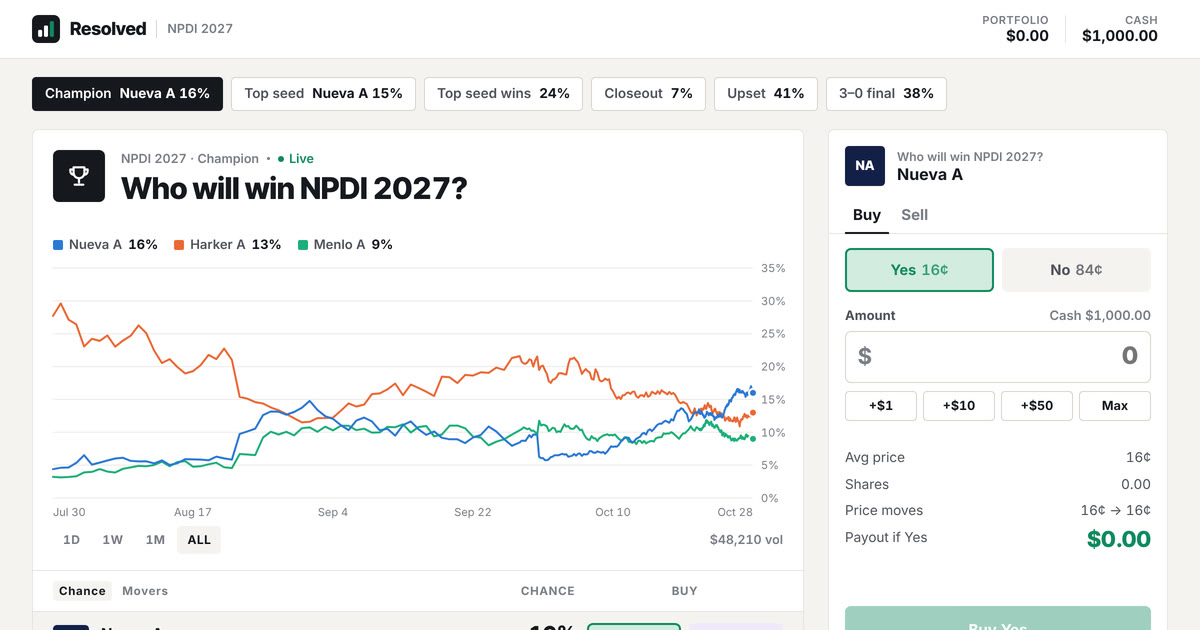
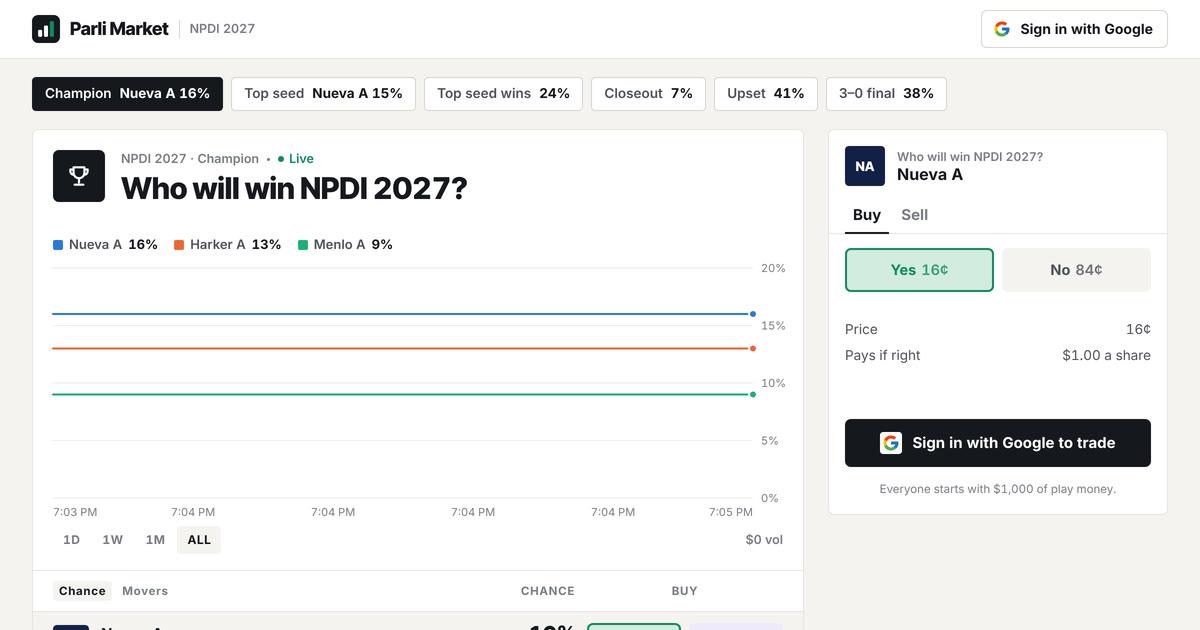
Call it Parli Market
The new name on the page, the sign-in and error pages, the link preview
and the docs. The header fits narrow phones (375 px with the longer name,
320 px without sideways scrolling), and the chart's time axis keeps up
while nobody trades.

Claude-Session: https://claude.ai/code/session_01GTHVkCPA3ymcEN54f3GL21

diff --git a/index.html b/index.html
@@ -3,11 +3,11 @@
 <head>
 <meta charset="utf-8">
 <meta name="viewport" content="width=device-width,initial-scale=1,viewport-fit=cover">
-<title>Resolved · NPDI odds</title>
+<title>Parli Market · NPDI odds</title>
 <meta name="description" content="Play-money prediction markets on the National Parliamentary Debate Invitational (NPDI): who wins, who&#39;s top seed, and more.">
 <meta name="theme-color" content="#111318">
 <link rel="canonical" href="https://markets.ivancui211.workers.dev/">
-<meta property="og:title" content="Resolved · NPDI odds">
+<meta property="og:title" content="Parli Market · NPDI odds">
 <meta property="og:description" content="Play-money prediction markets on the National Parliamentary Debate Invitational (NPDI): who wins, who&#39;s top seed, and more.">
 <meta property="og:image" content="https://markets.ivancui211.workers.dev/share.jpg"><meta property="og:image:width" content="1200"><meta property="og:image:height" content="630">
 <meta name="twitter:card" content="summary_large_image">
@@ -18,7 +18,7 @@
 <link rel="preconnect" href="https://fonts.gstatic.com" crossorigin>
 <link rel="stylesheet" href="https://fonts.googleapis.com/css2?family=Inter+Tight:wght@700;800&family=Inter:wght@400;500;600;700&display=swap">
 <style>
-/* Resolved: play-money prediction markets on NPDI. Markets along the top, the chart and the contracts in the middle,
+/* Parli Market: play-money prediction markets on NPDI. Markets along the top, the chart and the contracts in the middle,
    the order ticket on the right (a sheet from the bottom on phones). Play money, kept in this browser. */
 :root{
   --bg:#f4f3f0; --card:#fff; --line:#e6e4df; --line2:#d7d4cd;
@@ -120,6 +120,8 @@ button{background:none;border:0;padding:0;cursor:pointer}
 
 /* market head */
 .head{display:flex;gap:16px;align-items:flex-start;padding:20px 20px 0}
+.head>div:last-child{min-width:0}
+h1{overflow-wrap:break-word}
 .head .ic{flex:none;width:52px;height:52px;border-radius:var(--r);background:var(--ink);color:var(--card);display:grid;place-items:center;font-family:var(--display);font-weight:800;font-size:20px}
 .head .ic svg{width:26px;height:26px}
 .kick{color:var(--muted);font-size:12.5px;font-weight:600;display:flex;gap:8px;flex-wrap:wrap;align-items:center}
@@ -284,7 +286,7 @@ td .s{display:block;color:var(--muted);font-size:12px;font-weight:600}
 .foot{max-width:1240px;margin:0 auto;padding:0 var(--gut) 40px;color:var(--muted);font-size:12.5px}
 
 @media (max-width:920px){
-  .wrap{grid-template-columns:1fr}
+  .wrap{grid-template-columns:minmax(0,1fr)}
   .ticket{position:fixed;left:0;right:0;bottom:0;top:auto;z-index:40;border-radius:12px 12px 0 0;border-bottom:0;max-height:88vh;overflow:auto;transform:translateY(105%);visibility:hidden;transition:transform .4s var(--ease),visibility 0s linear .4s;padding-bottom:env(safe-area-inset-bottom,0px);box-shadow:0 -8px 30px rgba(0,0,0,.18)}
   .ticket.open{transform:none;visibility:visible;transition:transform .4s var(--ease)}
   .tk-close{display:grid}
@@ -313,14 +315,15 @@ td .s{display:block;color:var(--muted);font-size:12px;font-weight:600}
   .tabs button{padding:0 9px}
   .hide-s{display:none}
 }
-@media (max-width:360px){.brand b{display:none}}
+@media (max-width:400px){.bar .in{gap:10px}.brand{gap:8px}.brand b{font-size:16px}.bal strong{font-size:14px}.bal small{font-size:10px}.avatar{margin-left:2px;width:32px;height:32px}}
+@media (max-width:350px){.brand b{display:none}}
 @media (prefers-reduced-motion:reduce){*{animation:none!important;transition:none!important}}
 </style>
 </head>
 <body>
 <header class="bar">
   <div class="in">
-    <a class="brand" href="/" aria-label="Resolved, all markets"><svg class="mark" viewBox="0 0 32 32" aria-hidden="true"><rect class="mk-bg" width="32" height="32" rx="7"/><rect class="mk-bar" x="7" y="17" width="4.6" height="8" rx="1.4"/><rect class="mk-bar" x="13.7" y="12" width="4.6" height="13" rx="1.4"/><rect class="mk-up" x="20.4" y="7" width="4.6" height="18" rx="1.4"/></svg><b>Resolved</b><span id="ev-name"></span></a>
+    <a class="brand" href="/" aria-label="Parli Market, all markets"><svg class="mark" viewBox="0 0 32 32" aria-hidden="true"><rect class="mk-bg" width="32" height="32" rx="7"/><rect class="mk-bar" x="7" y="17" width="4.6" height="8" rx="1.4"/><rect class="mk-bar" x="13.7" y="12" width="4.6" height="13" rx="1.4"/><rect class="mk-up" x="20.4" y="7" width="4.6" height="18" rx="1.4"/></svg><b>Parli Market</b><span id="ev-name"></span></a>
     <div class="acct">
       <div class="bal" id="bal" hidden>
         <button type="button" id="bal-port" aria-label="Portfolio"><small class="cash-lbl">Portfolio</small><strong id="port-val">$0.00</strong></button>

diff --git a/worker/index.js b/worker/index.js
@@ -28,7 +28,7 @@ const redirect = (to, setCookies = []) => {
   return new Response(null, { status: 302, headers: h });
 };
 function page(title, msg, status = 200) {
-  return new Response(`<!doctype html><html lang="en"><head><meta charset="utf-8"><meta name="viewport" content="width=device-width,initial-scale=1"><title>${esc(title)} · Resolved</title><meta name="robots" content="noindex"><link rel="icon" type="image/svg+xml" href="/icon.svg"><style>body{margin:0;min-height:100vh;display:grid;place-items:center;background:#f4f3f0;color:#16181f;font:15px/1.5 Inter,system-ui,sans-serif;text-align:center;padding:16px}h1{font:800 26px/1.15 'Inter Tight',Inter,system-ui,sans-serif;margin:0 0 8px}p{color:#5b5e68;margin:0 auto 20px;max-width:44ch}a{display:inline-flex;align-items:center;height:40px;padding:0 16px;border-radius:6px;background:#111318;color:#fff;text-decoration:none;font-weight:700;font-size:14px}@media (prefers-color-scheme:dark){body{background:#121317;color:#f0efec}p{color:#a5a7ae}a{background:#f0efec;color:#111318}}</style></head><body><main><h1>${esc(title)}</h1><p>${esc(msg)}</p><a href="/">Back to the markets</a></main></body></html>`,
+  return new Response(`<!doctype html><html lang="en"><head><meta charset="utf-8"><meta name="viewport" content="width=device-width,initial-scale=1"><title>${esc(title)} · Parli Market</title><meta name="robots" content="noindex"><link rel="icon" type="image/svg+xml" href="/icon.svg"><style>body{margin:0;min-height:100vh;display:grid;place-items:center;background:#f4f3f0;color:#16181f;font:15px/1.5 Inter,system-ui,sans-serif;text-align:center;padding:16px}h1{font:800 26px/1.15 'Inter Tight',Inter,system-ui,sans-serif;margin:0 0 8px}p{color:#5b5e68;margin:0 auto 20px;max-width:44ch}a{display:inline-flex;align-items:center;height:40px;padding:0 16px;border-radius:6px;background:#111318;color:#fff;text-decoration:none;font-weight:700;font-size:14px}@media (prefers-color-scheme:dark){body{background:#121317;color:#f0efec}p{color:#a5a7ae}a{background:#f0efec;color:#111318}}</style></head><body><main><h1>${esc(title)}</h1><p>${esc(msg)}</p><a href="/">Back to the markets</a></main></body></html>`,
     { status, headers: { 'content-type': 'text/html; charset=utf-8', 'cache-control': 'no-store' } });
 }
 // the claims inside Google's ID token (it came straight from Google over TLS, so its signature needn't be checked)

diff --git a/app.js b/app.js
@@ -1,4 +1,4 @@
-// Resolved: play-money prediction markets on NPDI, shared by everyone. The market lives on the server (worker/):
+// Parli Market: play-money prediction markets on NPDI, shared by everyone. The market lives on the server (worker/):
 // this page reads it from /api/state every few seconds and sends trades to /api/trade; you sign in with Google to
 // trade. The maths (market.js) is the same on both sides, so the ticket can preview a trade before it's sent.
 import { EVENT, START_CASH } from './data.js';
@@ -504,7 +504,8 @@ function refresh() {
   updateChips(); updateMarket(); drawChart(); updateTicket();
   renderAccount(); renderPositions(); renderBoard(); renderFeed();
 }
-setInterval(() => { if (!document.hidden && S.ready) renderFeed(); }, 30e3);
+// keep the times fresh while nobody trades: the feed's "2m ago" and the chart's right edge (now)
+setInterval(() => { if (!document.hidden && S.ready) { renderFeed(); drawChart(); } }, 30e3);
 
 /* ---------- start ---------- */
 $('ev-name').textContent = `${EVENT.short} ${EVENT.year}`;

diff --git a/404.html b/404.html
@@ -3,7 +3,7 @@
 <head>
 <meta charset="utf-8">
 <meta name="viewport" content="width=device-width,initial-scale=1">
-<title>Not found · Resolved</title>
+<title>Not found · Parli Market</title>
 <meta name="robots" content="noindex">
 <link rel="icon" type="image/svg+xml" href="/icon.svg">
 <style>

diff --git a/CLAUDE.md b/CLAUDE.md
@@ -1,4 +1,4 @@
-# Resolved: project notes
+# Parli Market: project notes
 
 Play-money prediction markets on NPDI (the National Parliamentary Debate Invitational), Kalshi-style, shared by
 everyone who signs in with Google.
@@ -38,7 +38,7 @@ steps; the OAuth client's redirect URI is `https://markets.ivancui211.workers.de
 ## Files
 | File | What it does |
 |---|---|
-| `index.html` | The page and all its CSS (light and dark): top bar (the mark and "Resolved"; signed in: Portfolio, Cash and an account menu with Sign out; signed out: "Sign in with Google"), market chips, the market card (icon, head, headline number for Yes/No markets, legend, chart, ranges, contracts), the Positions / Leaderboard / Activity / Rules tabs, the order ticket (a bottom sheet under 920 px). |
+| `index.html` | The page and all its CSS (light and dark): top bar (the mark and "Parli Market"; signed in: Portfolio, Cash and an account menu with Sign out; signed out: "Sign in with Google"), market chips, the market card (icon, head, headline number for Yes/No markets, legend, chart, ranges, contracts), the Positions / Leaderboard / Activity / Rules tabs, the order ticket (a bottom sheet under 920 px). |
 | `app.js` | The page's logic: polling and merging the server's state, the chart (SVG steps; the top three teams at page load keep their colours for the visit and the selected team takes the fourth; crosshair and tooltip), the contracts list, the ticket and sending trades, positions, leaderboard, activity, the account menu. The URL hash picks the market (`#champion`). |
 | `market.js` | Shared by the page and the Worker: the markets built from `data.js` (`M`, `byId`, each with `outs`, `p0`, `sig`) and the LMSR maths (`prices`, `priceOf`, `moved`, `costOf`, `sharesFor`, `worth`, `startQ`). |
 | `worker/index.js` | The Worker (sign-in, `/api/state`, `/api/trade`, everything else to the assets) and the `Market` Durable Object. |

diff --git a/README.md b/README.md
@@ -1,4 +1,4 @@
-# Resolved
+# Parli Market
 
 Play-money prediction markets on the National Parliamentary Debate Invitational (NPDI): who wins, who's top seed,
 and a few Yes/No questions. One shared market: everyone trades the same prices, and a leaderboard ranks players.
@@ -10,12 +10,12 @@ Live at https://markets.ivancui211.workers.dev (Cloudflare deploys every push to
 Until this is done the site works, but the sign-in button says sign-in isn't set up yet.
 
 1. Go to https://console.cloud.google.com, sign in, and create a project (top bar → project picker → New project),
-   named for example "Resolved".
-2. Open **Google Auth Platform** (search for "OAuth consent screen") → **Get started**: app name "Resolved", your
+   named for example "Parli Market".
+2. Open **Google Auth Platform** (search for "OAuth consent screen") → **Get started**: app name "Parli Market", your
    email as the support email, audience **External**, your email as the contact → Create.
 3. **Audience** → **Publish app** (so anyone can sign in, not only test users). The site only asks for name and
    email, so Google doesn't need to review it.
-4. **Clients** → **Create client** → type **Web application**, name "Resolved". Under **Authorized redirect URIs**
+4. **Clients** → **Create client** → type **Web application**, name "Parli Market". Under **Authorized redirect URIs**
    add exactly `https://markets.ivancui211.workers.dev/auth/callback` → Create. Copy the **Client ID** and
    **Client secret**.
 5. In Cloudflare: Workers & Pages → **markets** → Settings → **Variables and Secrets** → Add, type **Secret**:
